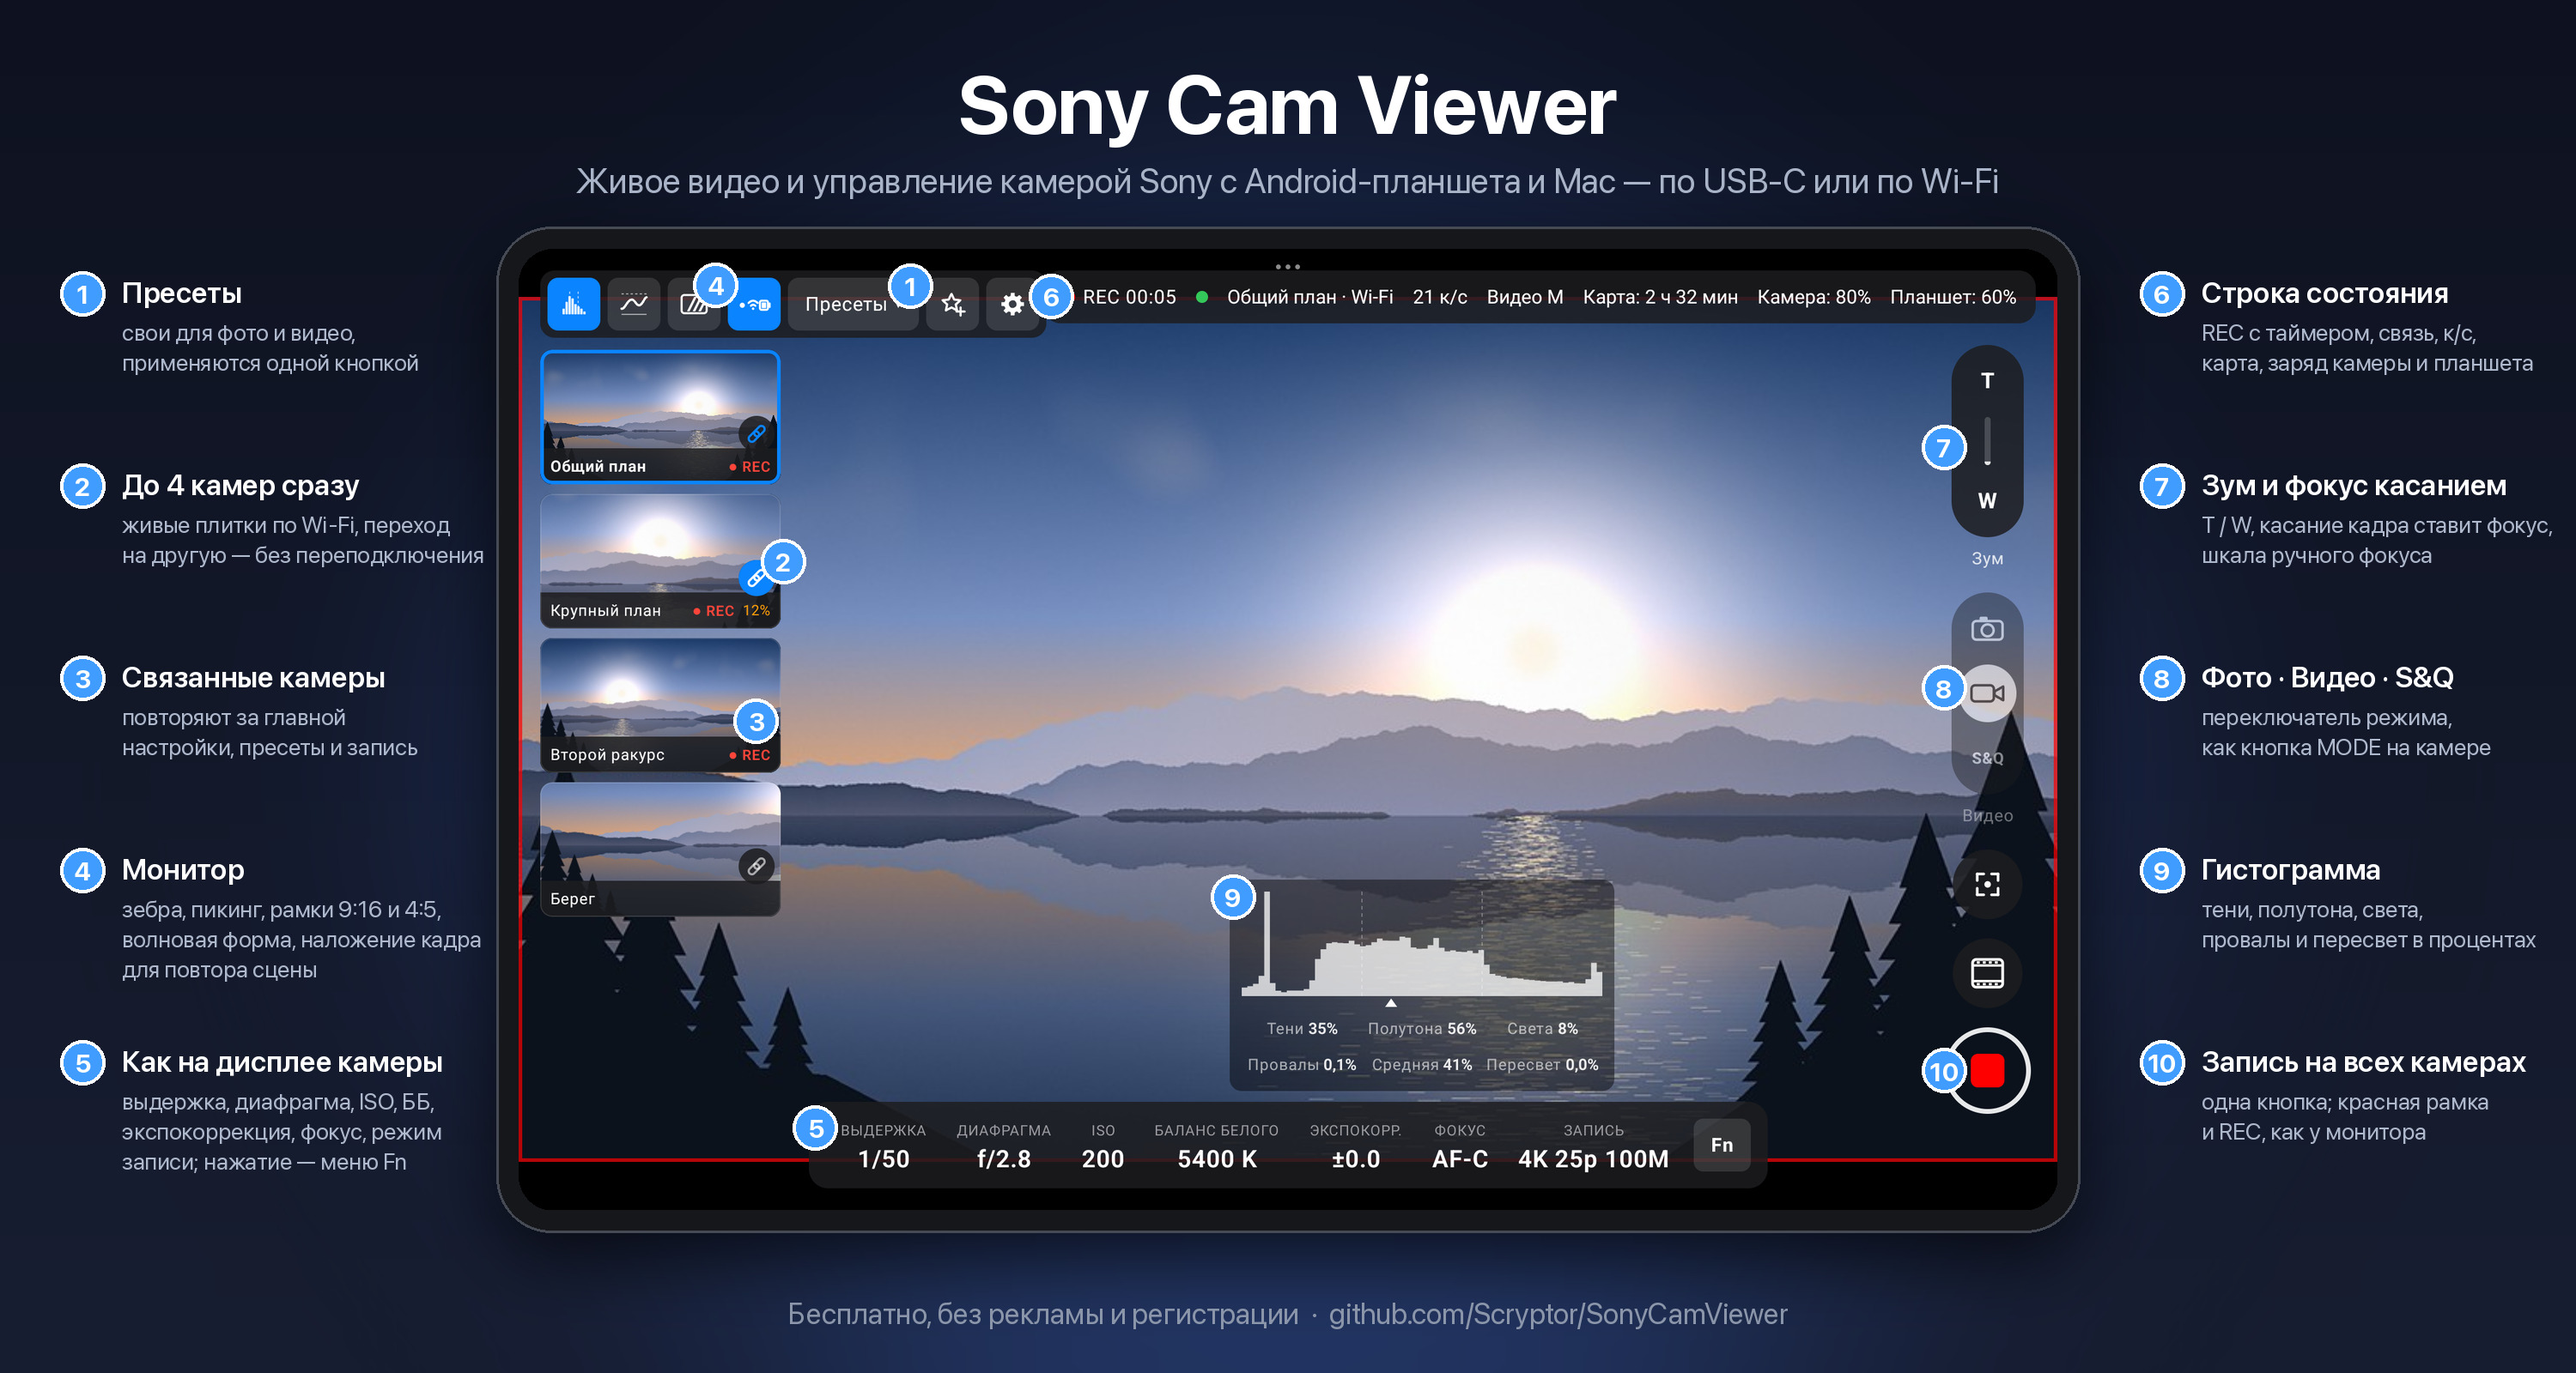
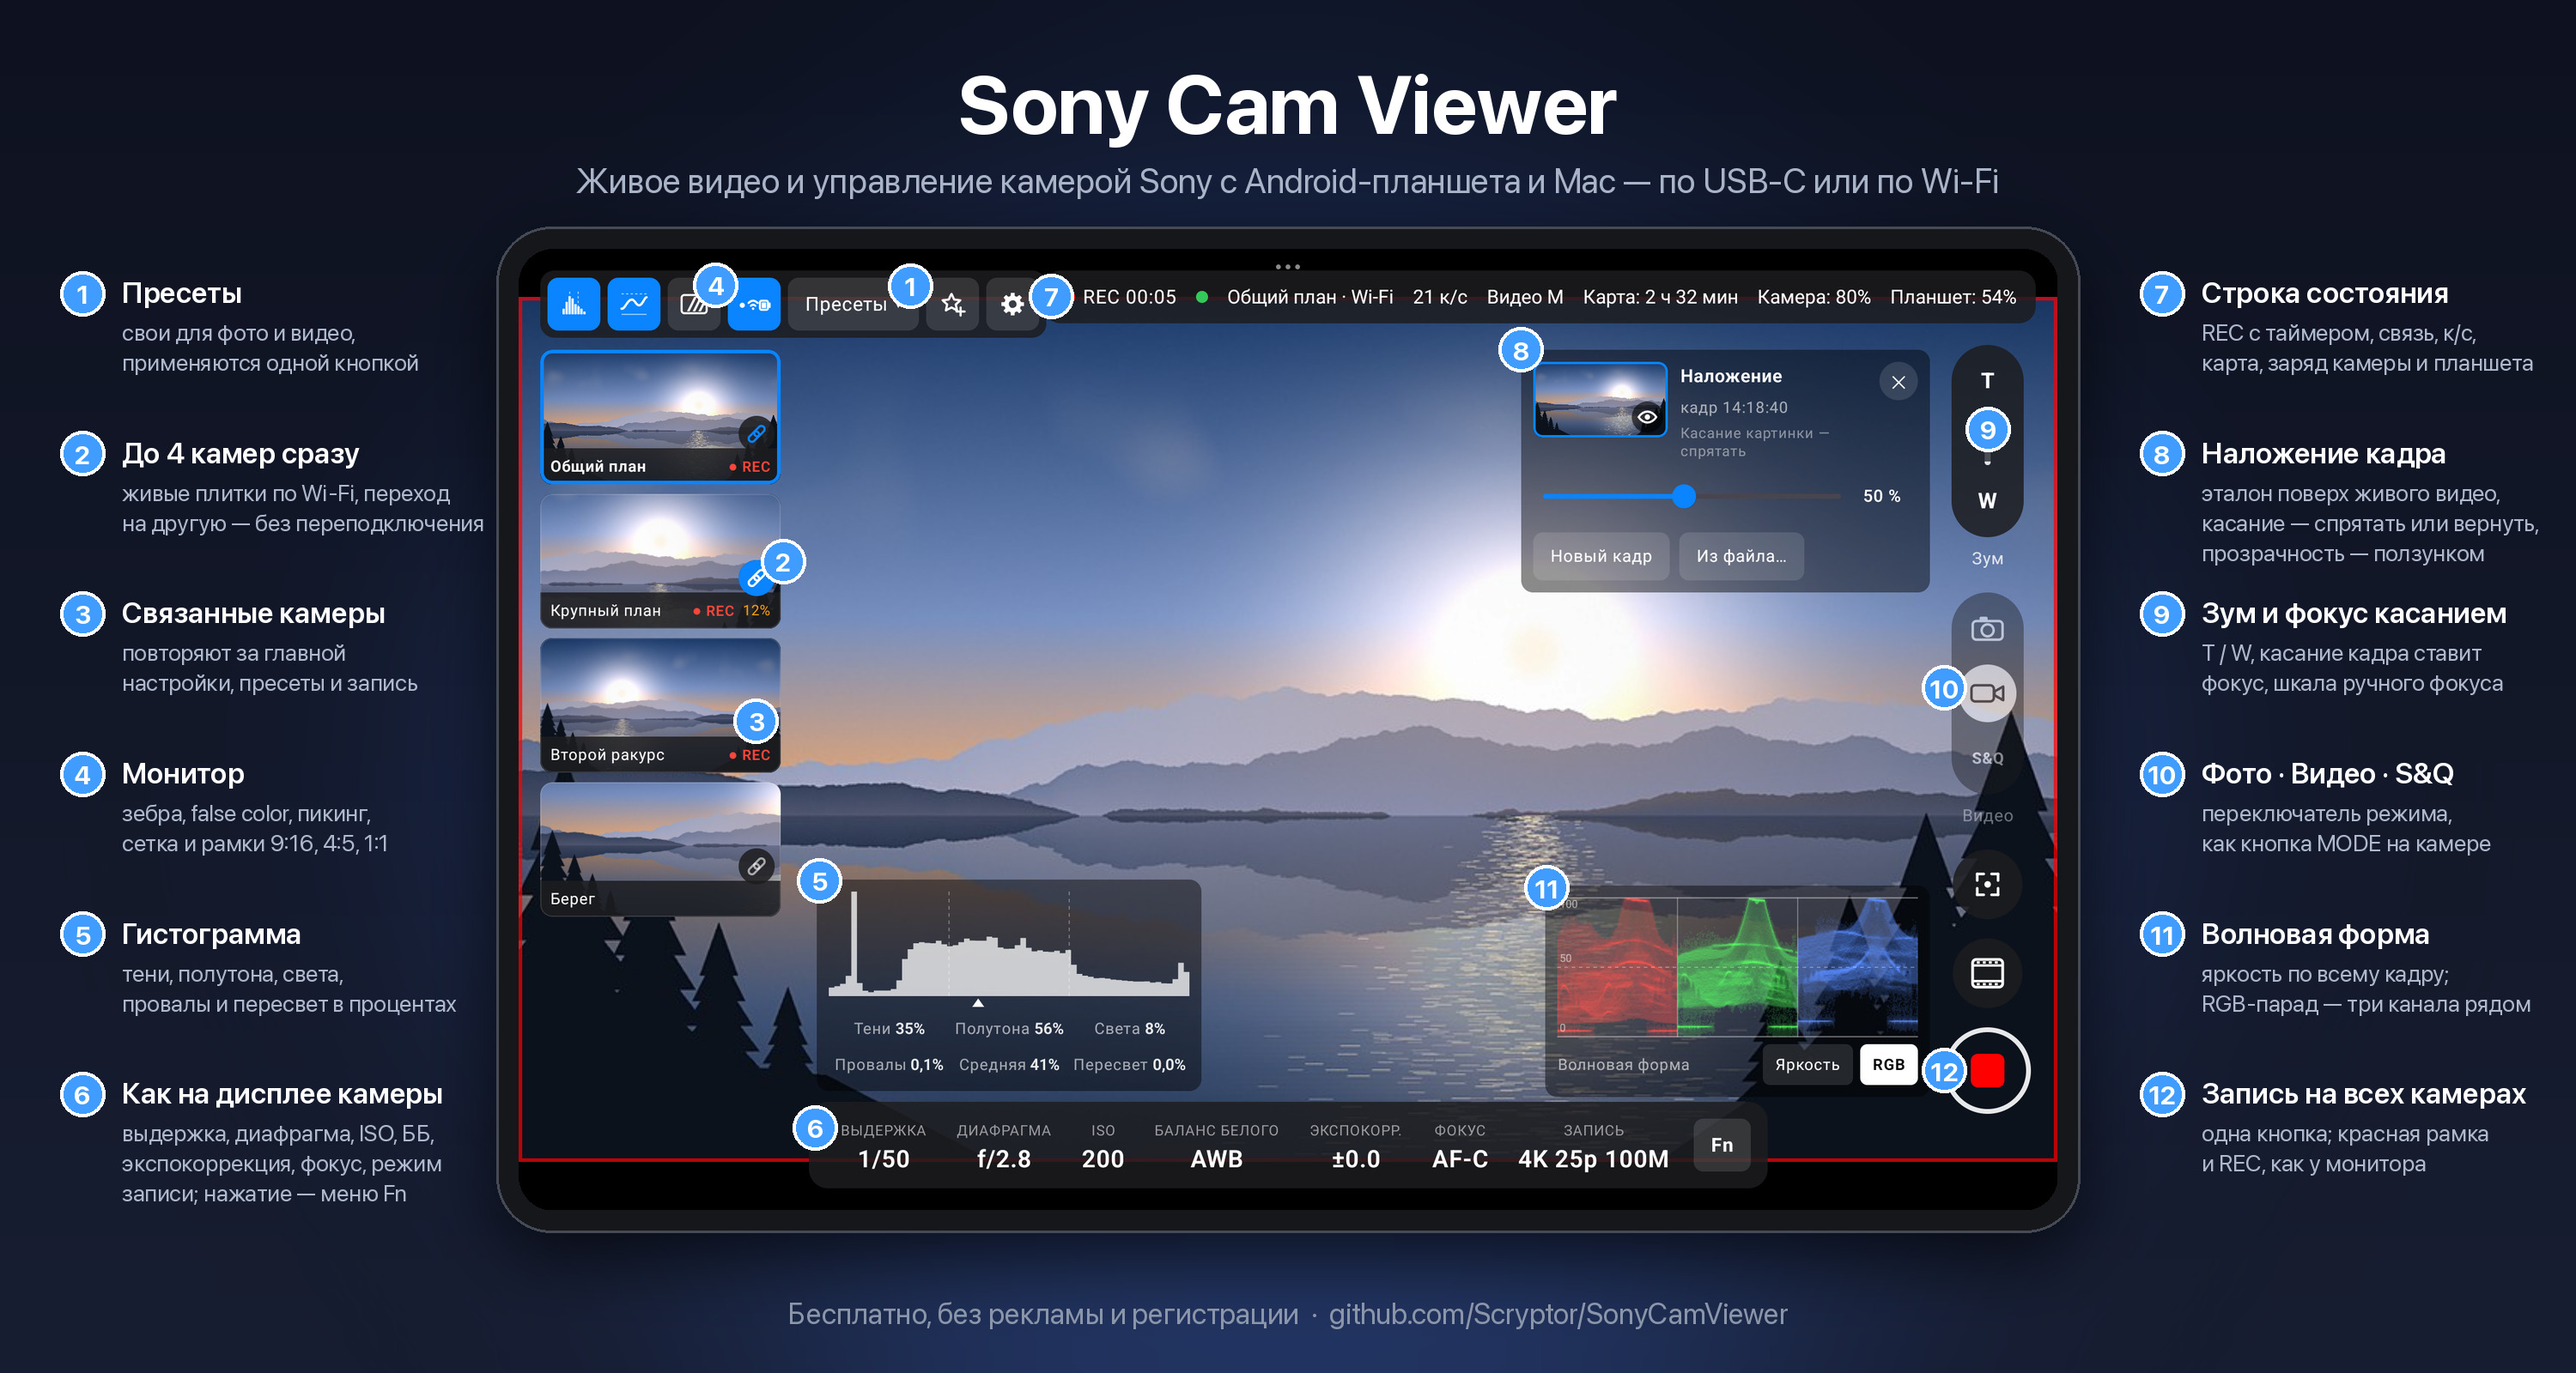
docs: cover shows the RGB waveform and the overlay panel, twelve badges

diff --git a/README.md b/README.md
@@ -17,7 +17,7 @@
   <a href="https://github.com/Scryptor/SonyCamViewer/releases/latest/download/Sony-Cam-Viewer.dmg"><b>⬇ Скачать для Mac (DMG)</b></a>
 </p>
 
-![Sony Cam Viewer на планшете: четыре камеры, три связаны и пишут; пресеты, «Монитор», зум и фокус касанием, гистограмма, строка значений](docs/screenshots/0-overview.jpg)
+![Sony Cam Viewer на планшете: четыре камеры, три связаны и пишут; гистограмма, волновая форма RGB, панель наложения кадра, «Монитор», зум и фокус касанием, строка значений](docs/screenshots/0-overview.jpg)
 
 Замена Imaging Edge Desktop (Remote) без лишнего — для камер Sony с режимом PC Remote, см. [Какие камеры подойдут](#какие-камеры-подойдут). Бесплатно, без рекламы и регистрации.
 
